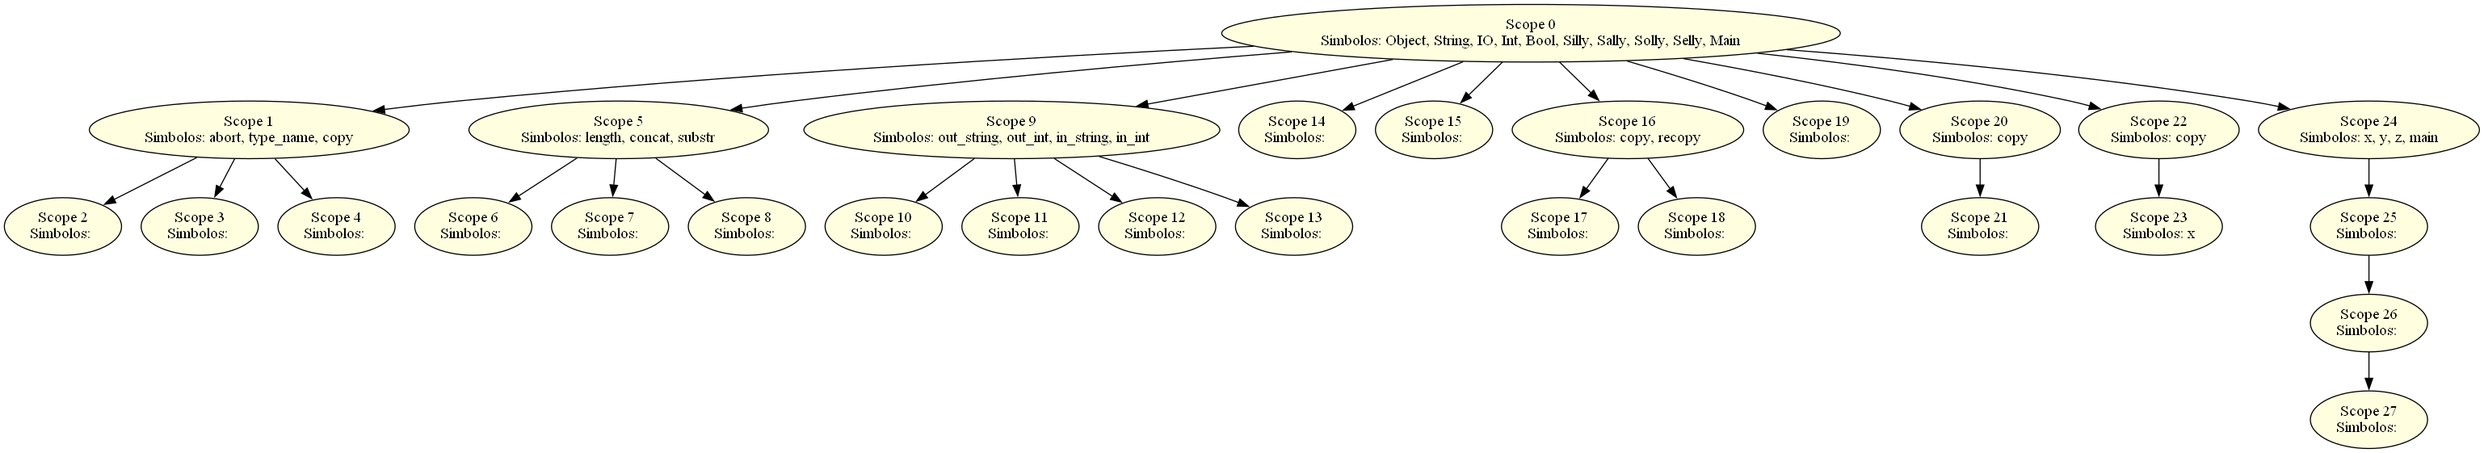
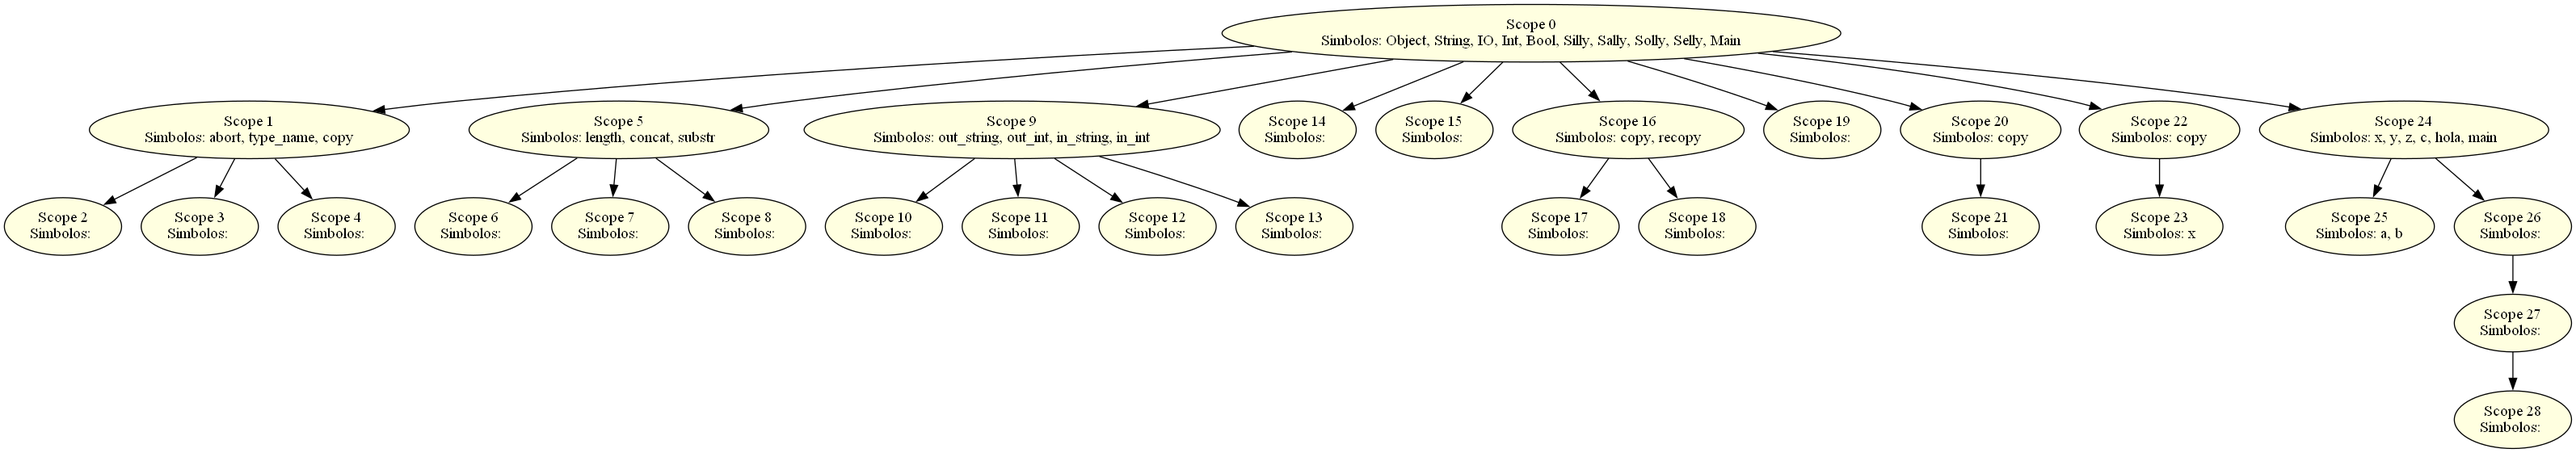
function Argument Checking

Changed region(s): [[0.0, 0.0, 0.999, 0.5758], [0.9054, 0.8485, 0.999, 1.0], [0.9054, 0.6364, 0.999, 0.7879]]

diff --git a/semanticVisitor.py b/semanticVisitor.py
@@ -104,7 +104,6 @@ class SemanticVisitor(yalpVisitor):
                     
                     #Verificamos si existe una variable con ese nombre en el scope
                     if not simbolo:
-                        print(self.tablaSimbolos.current_scope.name)
                         linea = ctx.start.line
                         columna = ctx.start.column
                         message = f"Error semantico: La variable '{variable.text}' en la posicion '{linea}':'{columna}' no ha sido declarada."
@@ -144,10 +143,95 @@ class SemanticVisitor(yalpVisitor):
                 #        pass
                         #
                     #Si no es de type token entonces buscamos en las clases nativas
+        
+        #Para llamada de funciones:
         if ctx.ID() and ctx.LPAR():
             visited_func = self.handle_context(ctx)
             
-            print('visited_func', visited_func)
+            
+            func_name = visited_func[0]
+            
+            def getInputTypes(args):
+                arg_types = []
+                for arg in args:
+                    if isinstance(arg, list):#Es un argumento y no una comma
+                        argumento = arg[0]
+                        token_type = self.lexer.symbolicNames[argumento.type]
+                        if token_type=="ID":
+                            simbolo = self.tablaSimbolos.get_scope_simbolo(argumento.text)
+                            if not simbolo:
+                                linea = ctx.start.line
+                                columna = ctx.start.column
+                                message = f"Error semantico: La variable '{argumento.text}' en la posicion '{linea}':'{columna}' no ha sido declarada."
+                                if message not in self.errors:
+                                    self.errors.append(message)
+                                return None
+                            else:
+                                token_type = simbolo.tipo_token
+                                arg_types.append(token_type)
+                        else:
+                            if token_type=="TRUE" or token_type=="FALSE" or token_type =="Boolean":
+                                arg_types.append("Boolean")
+                            elif token_type=="DIGIT" or token_type=="Int":
+                                arg_types.append("Int")
+                            elif token_type=="String":
+                                arg_types.append("String")
+                            else:
+                                arg_types.append(None)
+                return arg_types
+
+            def getArgTypes(scope):
+                items = scope[0].symbols.values()
+                
+                types = [value.tipo_token for value in items]
+                return types          
+                        
+            
+            token_type = self.lexer.symbolicNames[func_name.type]
+            if token_type=='ID':
+                simbolo = self.tablaSimbolos.get_scope_simbolo(func_name.text)
+                
+                #Verificamos si existe una funcion con ese nombre en el scope
+                if not simbolo:
+                    linea = ctx.start.line
+                    columna = ctx.start.column
+                    message = f"Error semantico: La función '{func_name.text}' en la posicion '{linea}':'{columna}' no ha sido declarada."
+                    if message not in self.errors:
+                        self.errors.append(message)
+                    return None
+                else:
+                    scope_tipo = simbolo.scope
+                    scope_tipo = scope_tipo.get_symbol_scope(simbolo)
+                    func_args = visited_func[2:-1]
+                    input_types = getInputTypes(func_args)
+                    argTypes = getArgTypes(scope_tipo)
+                    
+                    if len(argTypes)!=len(input_types):
+                        linea = ctx.start.line
+                        columna = ctx.start.column
+                        message = f"Error semantico: La función '{func_name.text}'  esperaba {len(argTypes)} argumentos, {len(input_types)} fueron pasados. {linea}:{columna}"
+                        if message not in self.errors:
+                            self.errors.append(message)
+                        return [None]
+                    else:
+                        for i in range(len(argTypes)):
+                            if argTypes[i]!=input_types[i]:
+                                linea = ctx.start.line
+                                columna = ctx.start.column
+                                message = f"Error semantico: La función '{func_name.text}'  esperaba un argumento de tipo '{argTypes[i]}', uno de tipo '{input_types[i]}' fue pasado. {linea}:{columna}"
+                                if message not in self.errors:
+                                    self.errors.append(message)
+                                return [None]
+                    return [simbolo.tipo_token]
+            else:
+                return [None]
+                    
+                    #De primero revisar si los argumentos metidos en la llamada hacen match de tipo y de cantidad a los de la función
+                    
+                    
+                    
+        
+
 
 
         if ctx.LET():

diff --git a/tablaSimbolos.py b/tablaSimbolos.py
@@ -82,7 +82,7 @@ from interfaz import custom_print, get_global_terminal
 #             conteo_alcances += 1
     
 class Simbolo:
-    def __init__(self, lexema, linea, columna, tipo_token, scope, parametro=False, hereda=None):
+    def __init__(self, lexema, linea, columna, tipo_token, scope, parametro=False, hereda=None, funcion=False):
         self.lexema = lexema
         self.linea = linea
         self.columna = columna
@@ -91,9 +91,10 @@ class Simbolo:
         self.global_ = False
         self.parametro = parametro
         self.hereda = hereda
+        self.funcion = funcion
 
     def __str__(self):
-        return f"Lexema: {self.lexema}, Linea: {self.linea}, Columna: {self.columna}, Tipo de Token: {self.tipo_token}, Scope: {self.scope}, Parametro: {self.parametro}, Hereda: {self.hereda}"
+        return f"Lexema: {self.lexema}, Linea: {self.linea}, Columna: {self.columna}, Tipo de Token: {self.tipo_token}, Scope: {self.scope}, Parametro: {self.parametro}, Hereda: {self.hereda}, Funcion: {self.funcion}"
 
     def setGlobal(self, global_):
         self.global_ = global_
@@ -112,9 +113,11 @@ class Scope:
     #Permite obtener el scope del algun simbolo entre los hijos
     def get_symbol_scope(self, symbol):
         if self.children:
-            print(symbol)
             keys = list(self.symbols.keys())
+            functions= [key for key,value in self.symbols.items() if value.funcion==True]
             idx = keys.index(symbol.lexema)
+            if symbol.lexema in functions:
+                idx = functions.index(symbol.lexema)
             for child in range(len(self.children)):
                 if child==idx:
                     return (self.children[child], symbol.hereda)
@@ -138,9 +141,9 @@ class Scope:
         custom_print(self.global_terminal, f"\n{indent}Scope {self.name}:")
         
         x = PrettyTable()
-        x.field_names = ["Lexema", "Linea", "Columna", "Tipo de Token", "Global", "Parametro", "Hereda"]
+        x.field_names = ["Lexema", "Linea", "Columna", "Tipo de Token", "Global", "Parametro", "Hereda", "Funcion"]
         for name, simbolo in self.symbols.items():
-            x.add_row([simbolo.lexema, simbolo.linea, simbolo.columna, simbolo.tipo_token, simbolo.global_, simbolo.parametro, simbolo.hereda])
+            x.add_row([simbolo.lexema, simbolo.linea, simbolo.columna, simbolo.tipo_token, simbolo.global_, simbolo.parametro, simbolo.hereda, simbolo.funcion])
         custom_print(self.global_terminal, x)
         for child in self.children:
             child.print_scope(level+1)

diff --git a/treeVisitor.py b/treeVisitor.py
@@ -150,6 +150,7 @@ class TreeVisitor(yalpVisitor):
             variable_name = ctx.ID().getText()
             variable_type = ctx.TYPE().getText()
 
+
             if self.tablaSimbolos.get_simbolo(variable_name):
                 self.errors.append(f"Error: El atributo '{variable_name}' ya ha sido declarado en este ámbito.")
             else:
@@ -163,7 +164,7 @@ class TreeVisitor(yalpVisitor):
             if self.tablaSimbolos.get_simbolo(feature_name):
                 self.errors.append(f"Error: El atributo/funcion '{feature_name}' ya ha sido declarado en este ámbito.")
             else:
-                self.tablaSimbolos.add_simbolo(feature_name, Simbolo(feature_name, ctx.start.line, ctx.start.column, type_feature, self.tablaSimbolos.current_scope))
+                self.tablaSimbolos.add_simbolo(feature_name, Simbolo(feature_name, ctx.start.line, ctx.start.column, type_feature, self.tablaSimbolos.current_scope, funcion=True))
             
         if token_type == "FUNCTION":
             self.tablaSimbolos.enterScope()

diff --git a/main.py b/main.py
@@ -114,7 +114,7 @@ def analisis_semantico(tree, tablaSimbolos, lexer):
     #grafo.render('./grafos/grafo', view=True, format='png')
     tablaSimbolos.print_tabla()
     
-    #ScopeVisualizer(tablaSimbolos).visualize()
+    ScopeVisualizer(tablaSimbolos).visualize()
     semanticVisitor = SemanticVisitor(lexer, tablaSimbolos)
     semanticVisitor.visit(tree) 
 
